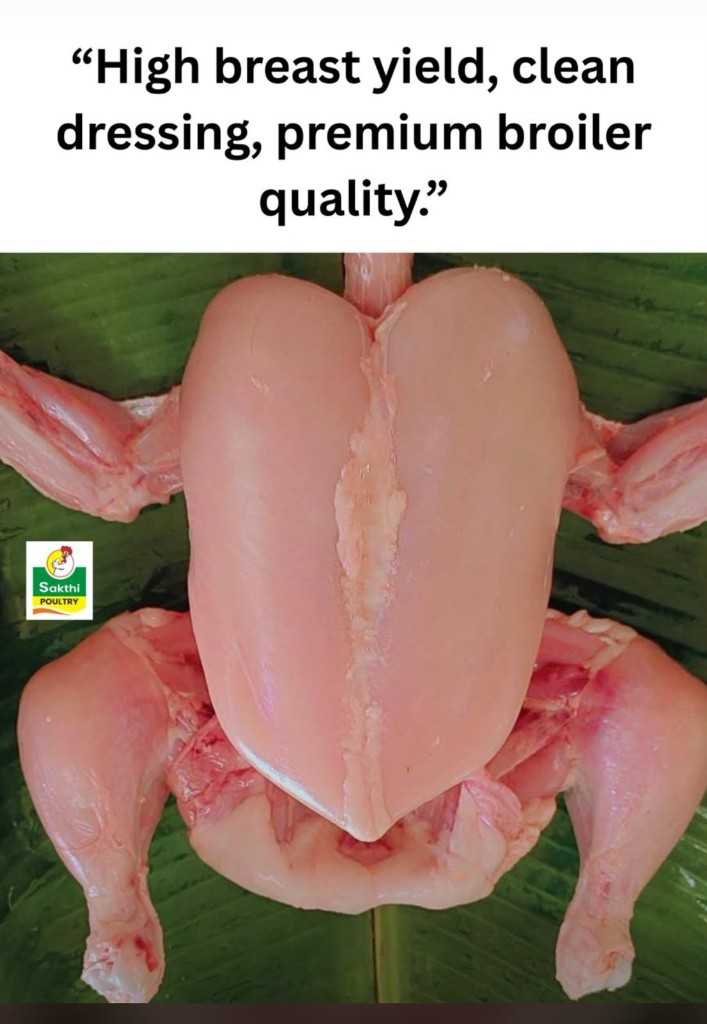
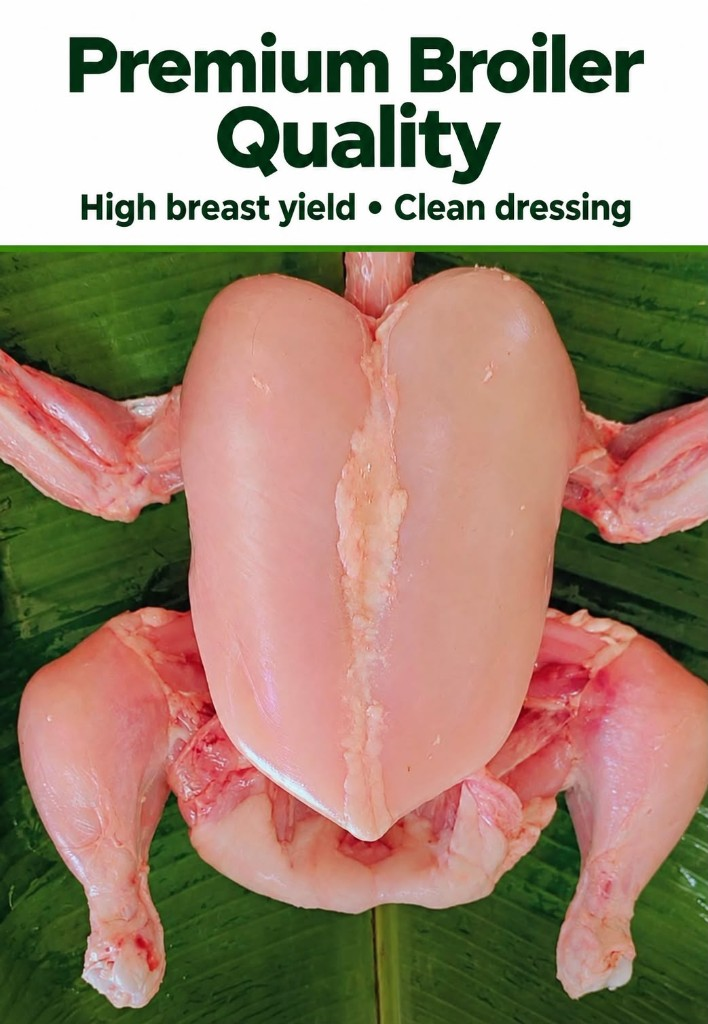
Replace Poultry Food Safety image with the premium broiler quality photo.

diff --git a/src/components/quality/QualityPractice.tsx b/src/components/quality/QualityPractice.tsx
@@ -44,9 +44,9 @@ export function QualityPractice() {
           <Reveal delay={0.08} className="relative aspect-[3/4] overflow-hidden rounded-2xl lg:col-span-5">
             <MediaImage
               src={asset("sakthi-poultry-food-safety.jpg")}
-              alt="Premium broiler quality from Sakthi Poultry — high breast yield and clean dressing"
+              alt="Premium broiler quality with high breast yield and clean dressing"
               fill
-              className="object-cover object-center"
+              className="object-cover object-top"
               sizes="(min-width: 1024px) 40vw, 100vw"
             />
           </Reveal>
